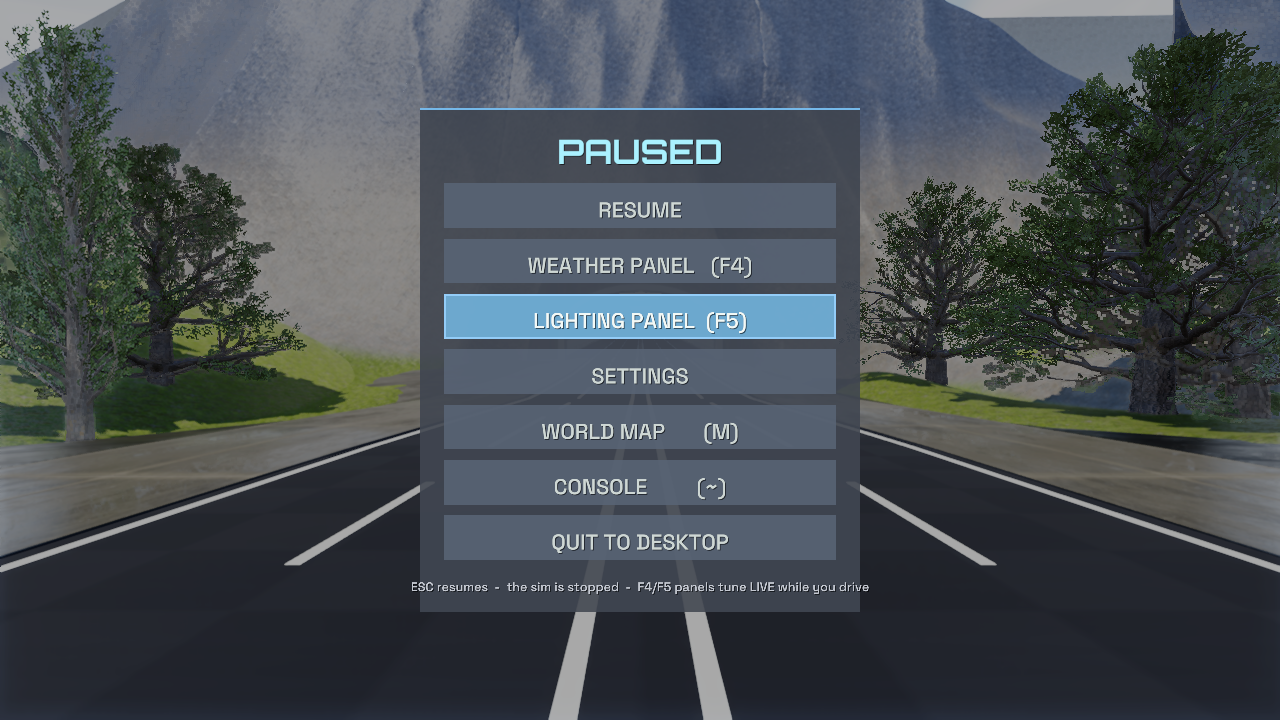
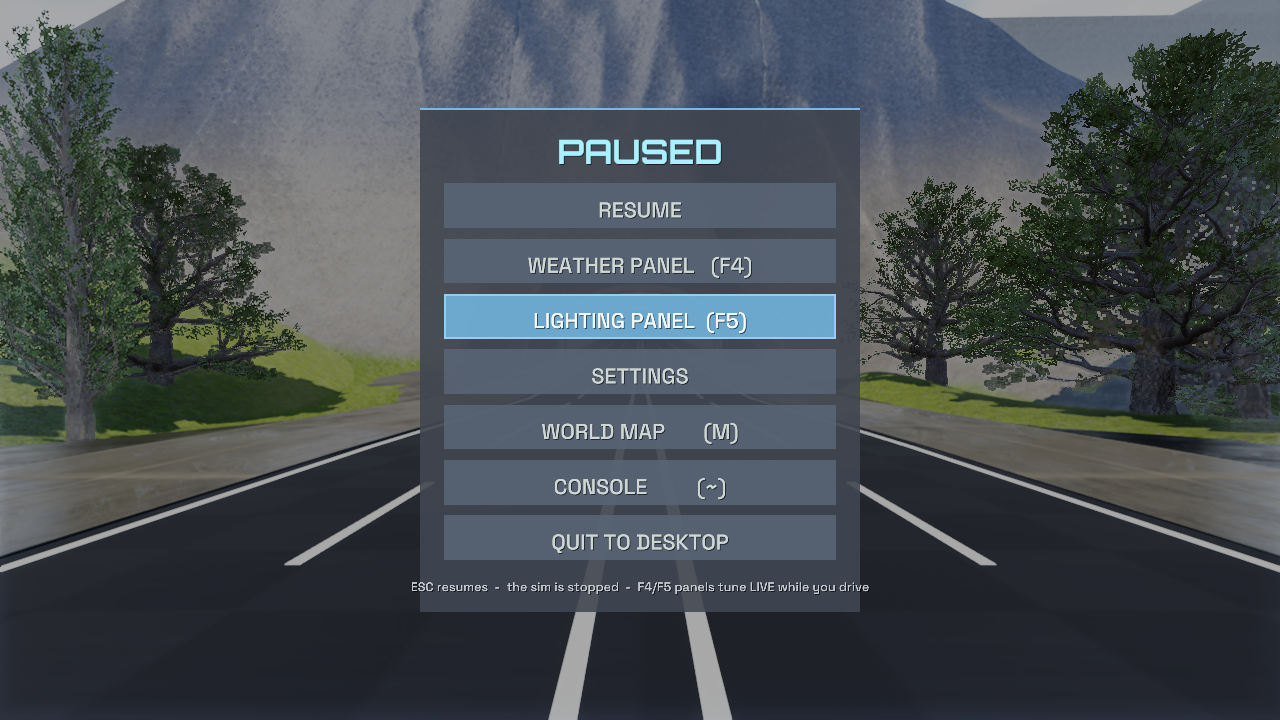
W-MENU: the BEFORE/AFTER pair is now the two BUTTONS, and all four proofs re-shot
The preset pair used to hand-roll a device push, which proves a device
call works and says nothing about the button. Both halves now run the
panel's own applyLightingValues() through uiMenu.applyDefaults() /
applySuggested() — the exact code a click runs, receipts printed:

  RESTORE DEFAULTS:   r_ddgi 0 | intensity 1.00 | rays 96 | rtrefl 1 | rtao 0 | ssao 1 | exposure 0.88
  SUGGESTED SETTINGS: r_ddgi 1 | intensity 1.15 | rays 96 | rtrefl 1 | rtao 1 | ssao 0 | exposure 0.88

Exposure is EQUAL across the pair by design, so the difference is not a
brightness trick. A still still has to centre DDGI's probe volume on the
camera (the live push sends size 0 = auto-fit; the interactive host
scrolls an explicit 420 m box with the car) — grid built 24x8x24, 18.3 m
spacing.

EYES ON, all four, full-res, read from the repo tree (not the run dir):
  ui_menu.png     PAUSED chrome over the live world, F4/F5 rows named
  ui_weather.png  RAIN mid-drag at 7.0 HEAVY; the receipt shows the drag
                  actually moved the console: wx off -> wx rain,
                  wx_precip_mult 2.40 -> 3.34 == 0.4 + 7.0*0.42, the same
                  mapping the typed `rain 7` command uses
  ui_lighting.png every pill matches the logged cvar exactly
  ui_preset_*.png the washed-out mountain face gains real gully shading,
                  the grass reads green, the bore gains depth

Zero [ERROR] in all four runs.

Claude-Session: https://claude.ai/code/session_01XjCi3JUj9YaSAPKMYseJmz

Changed region(s): [[0.0, 0.1833, 0.0625, 0.3972], [0.9062, 0.0, 1.0, 0.0917], [0.0938, 0.4583, 0.1562, 0.4889]]

diff --git a/app/world_hosts/host_tunnel.cpp b/app/world_hosts/host_tunnel.cpp
@@ -2510,32 +2510,35 @@ int hostTunnel(HostContext& hc) {
                 }
 
                 if (std::strcmp(shotUi, "preset") == 0) {
-                    // THE BEFORE/AFTER PAIR — same camera, the ONLY delta is
-                    // what the SUGGESTED SETTINGS button toggles (DDGI on with
-                    // kSuggestedLighting's intensity/rays + RT AO in, SSAO
-                    // out). Exposure is identical in both halves by design
-                    // (kSuggested/kDefault agree), so the pair isolates GI.
-                    ok = settleAndGrab(cam, dir + "/ui_preset_before.png");
-                    {
+                    // THE BEFORE/AFTER PAIR — one camera, and the two halves
+                    // are literally the two BUTTONS. Both run the panel's own
+                    // applyLightingValues() (cvars written, receipts printed),
+                    // not a hand-rolled device push, because the pair only
+                    // proves the button is worth having if the button is what
+                    // took the picture. Delta = RESTORE DEFAULTS -> SUGGESTED
+                    // SETTINGS: DDGI on at 1.15/96 rays, RT AO in, SSAO out.
+                    // Exposure is equal in both sets by design, so nothing in
+                    // the pair is a brightness trick.
+                    //
+                    // The one thing a still has to add: DDGI's probe volume.
+                    // pushLiveHostCVarsToDevice sends size 0 = AUTO-FIT, which
+                    // covers wherever the fit landed; the interactive host
+                    // instead scrolls an explicit 420 m box with the car. A
+                    // still centres that same box on the camera, once.
+                    auto centreDdgiOnCam = [&] {
                         x3::rhi::IRenderDevice::DdgiParams dg{};
-                        dg.enabled      = kSuggestedLighting.ddgi;
-                        dg.intensity    = kSuggestedLighting.ddgiIntensity;
-                        dg.raysPerProbe = kSuggestedLighting.ddgiRays;
-                        // A still centres the volume once where the camera is
-                        // (the interactive host scrolls it with the car).
+                        dg.enabled      = true;
+                        dg.raysPerProbe = uiCon->getInt("r_ddgi_rays");
+                        dg.intensity    = uiCon->getFloat("r_ddgi_intensity");
                         dg.originX = cam[0] - 210.0f; dg.originY = cam[1] - 45.0f;
                         dg.originZ = cam[2] - 210.0f;
                         dg.sizeX = 420.0f; dg.sizeY = 150.0f; dg.sizeZ = 420.0f;
                         device->setDdgiParams(dg);
-                        x3::rhi::IRenderDevice::RtaoParams rp{};
-                        rp.enabled = kSuggestedLighting.rtao;
-                        device->setRtaoParams(rp);
-                        x3::rhi::IRenderDevice::SsaoParams sp2{};
-                        sp2.enabled = kSuggestedLighting.ssao;
-                        device->setSsaoParams(sp2);
-                        x3::logInfo("[tunnel] X3_SHOT_UI=preset: applied kSuggestedLighting "
-                                    "(DDGI on, RT AO in, SSAO out) for the AFTER half");
-                    }
+                    };
+                    uiMenu.applyDefaults();     // the RESTORE DEFAULTS button
+                    ok = settleAndGrab(cam, dir + "/ui_preset_before.png");
+                    uiMenu.applySuggested();    // the SUGGESTED SETTINGS button
+                    centreDdgiOnCam();
                     ok = settleAndGrab(cam, dir + "/ui_preset_after.png") && ok;
                 } else {
                     std::string out2 = dir + "/ui_menu.png";
